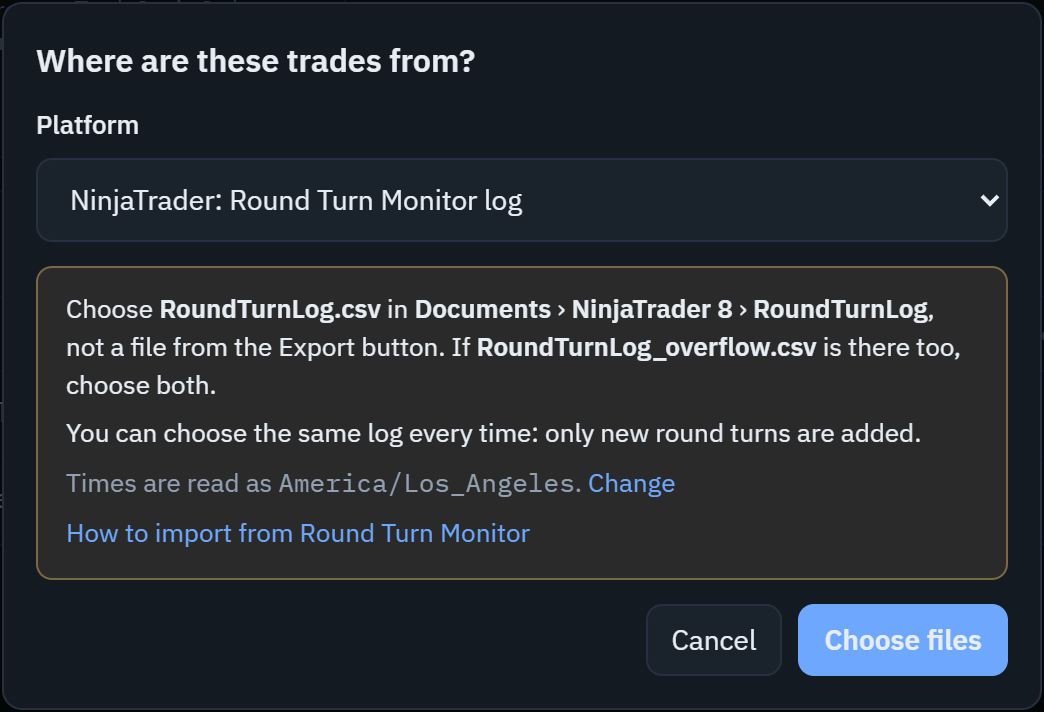
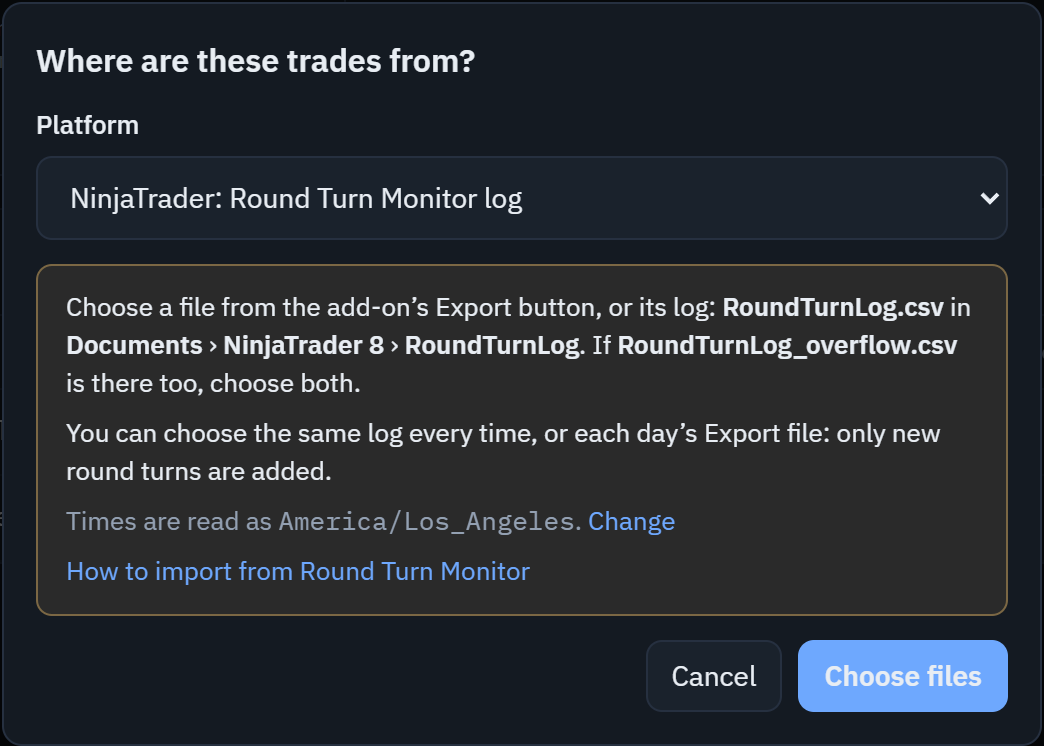
Site: the Round Turn Monitor guide takes the Export file too
The owner's decision of 2026-11-19: the add-on's Export button now writes the log's 22 columns, and Roundturn reads it
(branch app/rtm-export-file). Step 1 says to click Export or use the log; the Export button is marked as the way to go,
not crossed out. The dialog's screenshot is captured again with its new reminder, and the preview's message for an
Export file from the older add-on is quoted with what to do.

diff --git a/site/public/docs/import/round-turn-monitor/index.html b/site/public/docs/import/round-turn-monitor/index.html
@@ -4,7 +4,7 @@
 <meta charset="utf-8">
 <meta name="viewport" content="width=device-width, initial-scale=1">
 <title>Import from the Round Turn Monitor (NinjaTrader 8) | Roundturn docs</title>
-<meta name="description" content="How to import the Round Turn Monitor's log from NinjaTrader 8 into Roundturn: which file to choose, which button not to use, and how to pick the NinjaTrader account.">
+<meta name="description" content="How to import the Round Turn Monitor's Export file or its log from NinjaTrader 8 into Roundturn: which file to choose, and how to pick the NinjaTrader account.">
 <meta name="color-scheme" content="dark light">
 <link rel="icon" href="/favicon.svg" type="image/svg+xml">
 <link rel="stylesheet" href="/style.css">
@@ -38,10 +38,10 @@
   <article class="doc">
     <p class="crumbs"><a href="/docs/">Docs</a> / <a href="/docs/import/">Importing</a> / Round Turn Monitor</p>
     <h1>Import from the Round Turn Monitor</h1>
-    <p class="lead">The Round Turn Monitor is an add-on for NinjaTrader 8. After every round turn it adds a row to its log, for every account NinjaTrader tracks. Roundturn reads that log, so there is nothing to export: you choose the same file each time, and only new round turns are added.</p>
+    <p class="lead">The Round Turn Monitor is an add-on for NinjaTrader 8. After every round turn it adds a row to its log, for every account NinjaTrader tracks, and its Export button saves the same rows for one day. Roundturn reads either, and a round turn already imported is never added twice.</p>
 
     <dl class="doc-facts">
-      <div><dt>The file</dt><dd><code>RoundTurnLog.csv</code></dd></div>
+      <div><dt>The file</dt><dd>An Export file, or <code>RoundTurnLog.csv</code></dd></div>
       <div><dt>In Roundturn</dt><dd>NinjaTrader: Round Turn Monitor log</dd></div>
       <div><dt>Times</dt><dd>Your CSV time zone setting</dd></div>
     </dl>
@@ -49,19 +49,19 @@
     <ol class="doc-steps">
       <li>
         <p class="where">In NinjaTrader</p>
-        <h2>Trade as usual, and leave the Export button alone</h2>
-        <p>The add-on writes the log by itself, to <code>Documents › NinjaTrader 8 › RoundTurnLog</code>. You never need its Export button: the Export file has no contract (NQ or MNQ trade at the same price) and no commission, so Roundturn cannot read it safely and refuses it.</p>
+        <h2>Click Export, or use the log</h2>
+        <p>After the session, click <strong>Export</strong> in the Round Turn Monitor window. It saves the trading day's round turns, for one account or all of them, in the same columns as the log. Or skip it: the add-on writes every round turn to its log by itself, in <code>Documents › NinjaTrader 8 › RoundTurnLog</code>.</p>
         <figure class="shot">
           <!-- shot:rtm-monitor -->
           <a class="shot-frame" href="/docs/import/round-turn-monitor/monitor-export-button.png" title="Open the full-size image">
-          <img src="/docs/import/round-turn-monitor/monitor-export-button.png" width="222" height="52" alt="The Export and Settings buttons at the top right of the Round Turn Monitor window in NinjaTrader. The Export button is crossed out." loading="lazy" decoding="async">
+          <img src="/docs/import/round-turn-monitor/monitor-export-button.png" width="222" height="52" alt="The Export and Settings buttons at the top right of the Round Turn Monitor window in NinjaTrader, with the Export button marked." loading="lazy" decoding="async">
           <svg class="shot-marks" aria-hidden="true" focusable="false">
-          <rect class="shot-box no" x="8.11%" y="15.38%" width="42.34%" height="69.23%" rx="6"/>
-          <g class="shot-pin no"><circle cx="8.11%" cy="50%" r="13"/><text x="8.11%" y="50%">×</text></g>
+          <rect class="shot-box" x="8.11%" y="15.38%" width="42.34%" height="69.23%" rx="6"/>
+          <g class="shot-pin"><circle cx="8.11%" cy="50%" r="13"/><text x="8.11%" y="50%">1</text></g>
           </svg>
           </a>
           <!-- /shot:rtm-monitor -->
-          <figcaption><ol><li><span class="pin no" aria-hidden="true">×</span><span>Not this button. Its file covers only today and has no contract or commission.</span></li></ol></figcaption>
+          <figcaption><ol><li><span class="pin" aria-hidden="true">1</span><span><strong>Export</strong> saves the day's round turns as a CSV file, wherever you choose.</span></li></ol></figcaption>
         </figure>
       </li>
       <li>
@@ -71,21 +71,21 @@
         <figure class="shot">
           <!-- shot:rtm-dialog -->
           <a class="shot-frame" href="/docs/import/round-turn-monitor/roundturn-platform.png" title="Open the full-size image">
-          <img src="/docs/import/round-turn-monitor/roundturn-platform.png" width="522" height="356" alt="Roundturn's dialog &quot;Where are these trades from?&quot; with NinjaTrader: Round Turn Monitor log chosen, its reminder of where the log is, and the Choose files button." loading="lazy" decoding="async">
+          <img src="/docs/import/round-turn-monitor/roundturn-platform.png" width="522" height="373" alt="Roundturn's dialog &quot;Where are these trades from?&quot; with NinjaTrader: Round Turn Monitor log chosen, its reminder to choose an Export file or the log, and the Choose files button." loading="lazy" decoding="async">
           <svg class="shot-marks" aria-hidden="true" focusable="false">
-          <rect class="shot-box" x="3.45%" y="22.19%" width="93.1%" height="11.8%" rx="6"/>
-          <g class="shot-pin"><circle cx="96.55%" cy="22.19%" r="13"/><text x="96.55%" y="22.19%">1</text></g>
-          <rect class="shot-box" x="3.45%" y="37.36%" width="93.1%" height="44.1%" rx="6"/>
-          <g class="shot-pin"><circle cx="96.55%" cy="37.36%" r="13"/><text x="96.55%" y="37.36%">2</text></g>
-          <rect class="shot-box" x="76.44%" y="84.83%" width="20.11%" height="10.11%" rx="6"/>
-          <g class="shot-pin"><circle cx="96.55%" cy="84.83%" r="13"/><text x="96.55%" y="84.83%">3</text></g>
+          <rect class="shot-box" x="3.45%" y="20.91%" width="93.1%" height="11.26%" rx="6"/>
+          <g class="shot-pin"><circle cx="96.55%" cy="20.91%" r="13"/><text x="96.55%" y="20.91%">1</text></g>
+          <rect class="shot-box" x="3.45%" y="35.39%" width="93.1%" height="47.18%" rx="6"/>
+          <g class="shot-pin"><circle cx="96.55%" cy="35.39%" r="13"/><text x="96.55%" y="35.39%">2</text></g>
+          <rect class="shot-box" x="76.44%" y="85.79%" width="20.11%" height="9.65%" rx="6"/>
+          <g class="shot-pin"><circle cx="96.55%" cy="85.79%" r="13"/><text x="96.55%" y="85.79%">3</text></g>
           </svg>
           </a>
           <!-- /shot:rtm-dialog -->
           <figcaption>
             <ol>
               <li><span class="pin" aria-hidden="true">1</span><span>Pick <strong>NinjaTrader: Round Turn Monitor log</strong>.</span></li>
-              <li><span class="pin" aria-hidden="true">2</span><span>The reminder says where the log is and which time zone its times are read in.</span></li>
+              <li><span class="pin" aria-hidden="true">2</span><span>The reminder: an Export file or the log, where the log is, and which time zone the times are read in.</span></li>
               <li><span class="pin" aria-hidden="true">3</span><span><strong>Choose files</strong> opens your computer's file window.</span></li>
             </ol>
           </figcaption>
@@ -93,14 +93,14 @@
       </li>
       <li>
         <p class="where">On your computer</p>
-        <h2>Choose RoundTurnLog.csv</h2>
-        <p>Go to <code>Documents › NinjaTrader 8 › RoundTurnLog</code> and choose <code>RoundTurnLog.csv</code>.</p>
+        <h2>Choose the Export file, or the log</h2>
+        <p>Choose the file Export saved. Or go to <code>Documents › NinjaTrader 8 › RoundTurnLog</code> and choose <code>RoundTurnLog.csv</code>.</p>
         <p>If <code>RoundTurnLog_overflow.csv</code> is there too, choose both: hold <kbd>Ctrl</kbd> (<kbd>⌘</kbd> on a Mac) and click each. The add-on writes to the overflow file while the log is open in Excel, so some round turns are only in that file.</p>
       </li>
       <li>
         <p class="where rt">In Roundturn</p>
         <h2>Pick the NinjaTrader account, check, and import</h2>
-        <p>The log holds every account NinjaTrader tracks, Sim101 included, and one import takes one of them. The preview picks the account this Roundturn account already holds, or the only real one. Practice accounts (Sim101, Playback, Backtest) are never picked for you.</p>
+        <p>One import takes one NinjaTrader account. An Export file of one account needs no choice. The log, or an Export of all accounts, holds every account NinjaTrader tracks, Sim101 included: the preview picks the account this Roundturn account already holds, or the only real one. Practice accounts (Sim101, Playback, Backtest) are never picked for you.</p>
         <figure class="shot">
           <!-- shot:rtm-preview -->
           <a class="shot-frame" href="/docs/import/round-turn-monitor/roundturn-preview.png" title="Open the full-size image">
@@ -128,7 +128,7 @@
 
     <h2>Good to know</h2>
     <ul>
-      <li><strong>Choose the same log every time.</strong> Round turns already imported are left alone, and only the new ones are added.</li>
+      <li><strong>Choose the same log every time, or each day's Export file.</strong> Round turns already imported are left alone, and only the new ones are added. A round turn in both an Export file and the log counts once.</li>
       <li><strong>Several NinjaTrader accounts?</strong> Import the log once for each, each into its own Roundturn account. Copied trades can go into several accounts.</li>
       <li><strong>Times</strong> are read in your CSV time zone setting (in Roundturn's Settings), because the log writes NinjaTrader's clock without a time zone.</li>
       <li><strong>Commissions</strong> come from each account's own commission setting, as for every import, not from the log. Round turns logged before the add-on's rate was set show $0.00 in the log; Roundturn charges them the same as the rest.</li>
@@ -140,8 +140,8 @@
       <dd>More than one real account is in the log and Roundturn cannot tell which one belongs here. Pick it in the list.</dd>
       <dt>"A round turn is missing its other half."</dt>
       <dd>Part of the log was left out, usually the overflow file. Choose the whole log again, with <code>RoundTurnLog_overflow.csv</code> if it is there.</dd>
-      <dt>"This is the Round Turn Monitor's Export file, which has no contract or commission."</dt>
-      <dd>You chose a file from the Export button. Choose <code>RoundTurnLog.csv</code> instead.</dd>
+      <dt>"This Export file is from an older version of the Round Turn Monitor, without the contract or commission."</dt>
+      <dd>Exports made before the add-on was updated cannot be read safely: NQ and MNQ trade at the same price. Update the add-on and export again, or choose <code>RoundTurnLog.csv</code>, which has the same round turns.</dd>
       <dt>"This is the Round Turn Monitor's old log"</dt>
       <dd>That is the 19-column log of an earlier version of the add-on. Choose <code>RoundTurnLog.csv</code>, which the add-on writes now.</dd>
     </dl>
